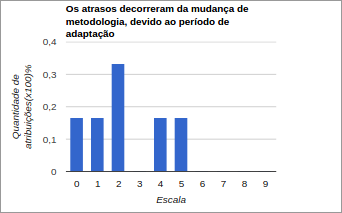
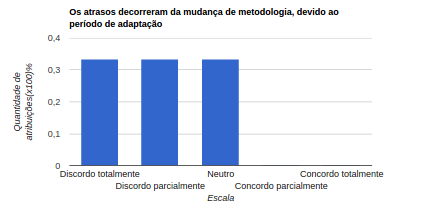
Adicionando resultados da análise

Changed region(s): [[0.0, 0.0, 1.0, 1.0], [0.8187, 0.6439, 0.8772, 0.6732]]

diff --git a/editaveis/diagnostico.tex b/editaveis/diagnostico.tex
@@ -1,0 +1,141 @@
+Para a realização da pesquisa-ação será considerado um projeto em andamento da organização que possui as seguintes características:
+
+
+\begin{itemize}
+	\item Aplicativo \textit{mobile};
+	\item Equipe composta de dois times:
+		\subitem 1 time de desenvolvimento com 6 pessoas;
+		\subitem 1 equipe de gerência com 6 pessoas;
+	\item Membros inexperientes na tecnologia.
+	\item Uso de metodologia ágil;
+	\item Quantidade de \textit{Sprints}: 7;
+	\item Tamanho da \textit{Sprint}: 1 semana;
+	\item Dedicação parcial do time, visto que trata-se de uma disciplina.
+\end{itemize}
+
+
+
+O diagnóstico realizado para ver a situação atual do projeto, selecionado para o estudo, consistiu na análise 
+	dos gráficos de \textit{Burndown} das quatro primeiras \textit{Sprints} e na aplicação de um questionário para o 
+	time de desenvolvimento.
+	
+	\subsection{Análise dos gráficos de \textit{Burndown}}
+
+	Para as quatro primeiras \textit{Sprints} é possível ver nas Figuras \ref{fig:burndown0}, \ref{fig:burndown1}, \ref{fig:burndown2}
+	\ref{fig:burndown3} que os pontos realizados não correspondem a pontuação total planejada para a \textit{Sprint}. 
+	Assim é possível ver que que nem todas as histórias alocadas foram entregues, o que significa que houve atrasos nas entregas.
+
+	O acompanhamento do \textit{Burndown} por \textit{Sprint} auxiliou na visualização da distribuição do trabalho dentro da \textit{Sprint}.
+	Assim foi possível ver, por exemplo, que nas \textit{Sprints} 0 e 1 o time demorou para começar a trabalhar, o que pode ter sido uma causa do atraso. Dessa forma, impactando nas \textit{Sprints} seguintes.
+
+	\begin{figure}[!h]
+	\begin{minipage}[b]{0.5\linewidth} 
+	\centering
+	\includegraphics[scale=0.5]{figuras/burndown_sprint0.png}
+	\caption{Burndown da \textit{Sprint} 0.}
+	\label{fig:burndown0}
+	\end{minipage}
+	\hspace{0.5cm} 
+	\begin{minipage}[b]{0.5\linewidth}
+	\centering
+	\includegraphics[scale=0.5]{figuras/burndown_sprint1.png}
+	\caption{Burndown da \textit{Sprint} 1.}
+	\label{fig:burndown1}
+	\end{minipage}
+	\end{figure}
+	
+	\begin{figure}[!h]
+	\begin{minipage}[b]{0.5\linewidth} 
+	\centering
+	\includegraphics[scale=0.5]{figuras/burndown_sprint2.png}
+	\caption{Burndown da \textit{Sprint} 2.}
+	\label{fig:burndown2}
+	\end{minipage}
+	\hspace{0.5cm} 
+	\begin{minipage}[b]{0.5\linewidth}
+	\centering
+	\includegraphics[scale=0.5]{figuras/burndown_sprint3.png}
+	\caption{Burndown da \textit{Sprint} 3.}
+	\label{fig:burndown3}
+	\end{minipage}
+	\end{figure}
+
+	\vfill
+	\pagebreak
+
+	\subsection{Questionário}
+
+	A fim de coletar dados sobre a percepção dos membros sobre possíveis aspectos que afetaram a entrega nos prazos foi aplicado
+	um questionário ao time de desenvolvimento que se encontra no apêndice \ref{apendice:questionario}.
+
+	No apêndice pode ser visto que o questionário é composto de afirmações que são avaliadas pelo respondente em uma escala de 1 a 5. Na qual 1 significa discordância total da afirmação e 5 concordância total. 
+
+	As respostas coletadas foram contabilizadas de acordo com cada categoria da escala para cada afirmação. Cada afirmação tratava de um fator que poderia estar ocasionando os atrasos. Essas afirmações são:
+
+	\begin{table}[h!]
+	\centering
+	\caption{Afirmações do questionário e fatores associados}
+	\label{my-label}
+	\begin{tabular}{|l|l|}
+	\hline
+	\multicolumn{1}{|c|}{\textbf{Afirmação}}                                                     & \multicolumn{1}{c|}{\textbf{Fator}}                                                       \\ \hline
+	\begin{tabular}[c]{@{}l@{}}1. Os atrasos ocorridos decorreram dos\\  erros nas estimativas em StoryPoints.\end{tabular}                 & Erro nas estimativas                                                                      \\ \hline
+	\begin{tabular}[c]{@{}l@{}}2. A dificuldade na linguagem ocasionou\\  os atrasos nas entregas da \textit{Sprint}.\end{tabular}        & Dificuldade na linguagem                                                                  \\ \hline
+	\begin{tabular}[c]{@{}l@{}}3. O tamanho da \textit{Sprint}\\  afetou nas entregas no prazo.\end{tabular}                              & Tamanho da \textit{Sprint}                                                              \\ \hline
+	\begin{tabular}[c]{@{}l@{}}4. Os atrasos decorreram da mudança\\  de metodologia, devido ao período de adaptação.\end{tabular}          & \begin{tabular}[c]{@{}l@{}}Dificuldade na adaptação \\ para metodologia ágil\end{tabular} \\ \hline
+	\begin{tabular}[c]{@{}l@{}}5. A demora na iniciação do desenvolvimento na\\  \textit{Sprint} ocasionou os atrasos.\end{tabular}       & Procrastinação                                                                            \\ \hline
+	\begin{tabular}[c]{@{}l@{}}6. A dificuldade na comunicação afetou\\  a entrega no prazo.\end{tabular}                                   & Dificuldade na comunicação                                                                \\ \hline
+	\begin{tabular}[c]{@{}l@{}}7. A dedicação parcial do time afetou\\  a entrega no prazo.\end{tabular}                                    & Dedicação parcial do time                                                                 \\ \hline
+	\begin{tabular}[c]{@{}l@{}}8. A dificuldade no entendimento das histórias\\  acarretou nos atrasos nas \textit{sprints}.\end{tabular} & \begin{tabular}[c]{@{}l@{}}Dificuldade no entendimento\\  das histórias\end{tabular}      \\ \hline
+	\end{tabular}
+	\end{table}
+
+	A sumarização dos resultados pode ser vista na Tabela \ref{tab:analise_respostas}.	Para uma melhor visualização das respostas também foram gerados gráficos, que também podem ser vistos em apêndice (Apêndice \ref{apendice:graficos}).
+
+	\begin{table}[!h]
+	\flushleft
+	\caption{Percentual de respostas por categoria em cada pergunta}
+	\label{tab:analise_respostas}
+	\begin{tabular}{|c|l|l|l|l|l|l|l|l|}
+	\hline
+	\textbf{\begin{tabular}[c]{@{}c@{}}Afirmação/\\ Categorias\end{tabular}} & \textbf{1} & \textbf{2} & \textbf{3} & \textbf{4} & \textbf{5} & \textbf{6} & \textbf{7} & \textbf{8} \\ \hline
+	\begin{tabular}[c]{@{}c@{}}Discordo\\  totalmente\end{tabular}   & 0\%        & 0\%        & 16,67\%    & 33,33\%    & 0\%        & 0\%        & 16,67\%    & 100\%      \\ \hline
+	\begin{tabular}[c]{@{}c@{}}Discordo\\  parcialmente\end{tabular} & 0\%        & 0\%        & 33,33\%    & 33,33\%    & 0\%        & 16,67\%    & 50\%       & 0\%        \\ \hline
+	Neutro                                                           & 33,33\%    & 0\%        & 33,33\%    & 33,33\%    & 16,67\%    & 33,3\%     & 16,67\%    & 0\%        \\ \hline
+	\begin{tabular}[c]{@{}c@{}}Concordo\\  parcialmente\end{tabular} & 50\%       & 50\%       & 16,67\%    & 0\%        & 66,67\%    & 50\%       & 0\%        & 0\%        \\ \hline
+	\begin{tabular}[c]{@{}c@{}}Concordo\\  totalmente\end{tabular}   & 16,67\%    & 50\%       & 0\%        & 0\%        & 16,67\%    & 0\%        & 16,67\%    & 0\%        \\ \hline
+	\end{tabular}
+	\end{table}
+
+
+
+		\subsubsection{Análise das respostas}
+
+			Analisando os dados apresentados na tabela \ref{tab:analise_respostas} e através do acompanhamento das \textit{sprints}, é possível analisar os fatores que a equipe acredita que tenham ocasionado os atrasos.
+	
+			Dessa forma, é possível ver que a equipe considera que errou nas estimativas em \textit{StoryPoints} e isso afetou nas entregas das histórias, visto que a maioria respostas convergiu para a concordância com a afirmação. Esse fator é um fator provável dentro da organização considerada nesse trabalho, visto que as equipes são inexperientes.
+
+			Outro fator que convergiu para a concordância foi a dificuldade na linguagem. O time analisa como um grande fator que impediu o desenvolvimento das histórias no prazo.
+
+			O tamanho da \textit{sprint} foi um fator que não houve uma convergência nítida, todavia a maioria discordou ou se colocou como neutro em relação a esse fator. Assim, não é um fator que tem um peso sobre os atrasos ocorridos.
+
+			A adaptação para a nova metodologia não foi um fator responsável pelos atrasos visto que as respostas convergiram para a discordância da afirmação.
+
+			A demora na iniciação do desenvolvimento, ou seja, a procrastinação da equipe foi considerado um fator responsável pelos atrasos, visto que as respostas convergiram para a concordância.
+
+			Em relação à dificuldade na comunicação a equipe se posicionou, em sua maioria, neutra ou em uma concordância parcial. A partir disso é possível
+			ver que a dificuldade de comunicação afeta os atrasos mas com um peso bem menor que outros fatores.
+
+			Para o fator dedicação parcial é possível que a equipe, em sua maioria, não acredita ser um problema que tenha ocasionado os atrasos.
+
+			Por fim, a dificuldade no entendimento das histórias foi considerado um fator sem influência nos atrasos. Isso é perceptível já que na organização, objeto de pesquisa deste trabalho, os requisitos da aplicação são definidos pelo time.
+
+		\subsubsection{Resultado da análise}
+			Resumindo a análise dos resultados, temos que os fatores que foram considerados responsáveis pelos atrasos, que serão objetos de estudo deste trabalho, são:
+
+			\begin{itemize}
+				\item Erros nas estimativas;
+				\item Dificuldade na linguagem;
+				\item Procrastinação;
+				\item Dificuldade de comunicação;
+			\end{itemize}

diff --git a/editaveis/pesquisa_acao.tex b/editaveis/pesquisa_acao.tex
@@ -1,98 +1,28 @@
 \chapter{Pesquisa-ação}
 \label{pesquisa_acao}
-	\section{Descrição da organização}
 
-		A organização a ser tratada neste trabalho refere-se aos grupos de trabalho das disciplinas de Gestão de Projetos
+		A organização a ser tratada como objeto da pesquisa-ação neste trabalho refere-se aos grupos de trabalho das disciplinas de Gestão de Projetos
 		e Portfólio (GPP) e Metodologias de Desenvolvimento de Software (MDS), do curso de Engenharia de \textit{Software}
 		da Universidade de Brasília.
 
-		A organização trabalha na produção de software com vários projetos, os quais possuem as seguintes características:
+		\section{Descrição da organização}
 
-		\begin{itemize}
-			\item Uso de dados abertos;
-			\item Aplicações WEB e aplicativos \textit{mobile};
-			\item Equipe composta de dois times:
-				\subitem 1 time de desenvolvimento;
-				\subitem 1 equipe de gerência;
-			\item Equipes pequenas e inexperientes;
-			\item Prazo fixo;
-		\end{itemize}
+			A organização trabalha na produção de software com vários projetos, os quais possuem as seguintes características:
 
-		\subsection{Objeto da ação}
+			\begin{itemize}
+				\item Uso de dados abertos;
+				\item Aplicações WEB e aplicativos \textit{mobile};
+				\item Equipe composta de dois times:
+					\subitem 1 time de desenvolvimento;
+					\subitem 1 equipe de gerência;
+				\item Equipes pequenas e inexperientes;
+				\item Prazo fixo;
+				\item Aplicação da metodologia de desenvolvimento tradicional e da metodologia ágil.
+			\end{itemize}
 
-		Para a realização da pesquisa-ação será considerado um projeto em andamento da organização que possui as seguintes características:
+	\section{Diagnóstico}
 
-
-		\begin{itemize}
-			\item Aplicativo \textit{mobile};
-			\item Equipe composta de dois times:
-				\subitem 1 time de desenvolvimento com 6 pessoas;
-				\subitem 1 equipe de gerência com 6 pessoas;
-			\item Membros inexperientes na tecnologia.
-			\item Uso de metodologia ágil;
-			\item Quantidade de \textit{Sprints}: 7;
-			\item Tamanho da \textit{Sprint}: 1 semana;
-			\item Dedicação parcial do time, visto que trata-se de uma disciplina.
-		\end{itemize}
-
-	\pagebreak
-
-
-\section{Diagnóstico}
-
-	O diagnóstico realizado para ver a situação atual do projeto selecionado para o estudo consistiu na análise 
-	dos gráficos de \textit{Burndown} das quatro primeiras \textit{Sprints} e na aplicação de um questionário para o 
-	time de desenvolvimento.
-	
-	\subsection{Análise dos gráficos de \textit{Burndown}}
-
-	Para as quatro primeiras \textit{Sprints} é possível ver nas Figuras \ref{fig:burndown0}, \ref{fig:burndown1}, \ref{fig:burndown2}
-	\ref{fig:burndown3} que os pontos realizados não correspondem a pontuação total planejada para a \textit{Sprint}. 
-	Assim é possível ver que que nem todas as histórias alocadas foram entregues, o que significa que houve atrasos nas entregas.
-
-	O acompanhamento do \textit{Burndown} por \textit{Sprint} auxiliou na visualização da distribuição do trabalho dentro da \textit{Sprint}.
-	Assim foi possível ver, por exemplo, que nas \textit{Sprints} 0 e 1 o time demorou para começar a trabalhar, o que pode ter sido uma causa do atraso. Dessa forma, impactando nas \textit{Sprints} seguintes.
-
-	\begin{figure}[!h]
-	\begin{minipage}[b]{0.5\linewidth} 
-	\centering
-	\includegraphics[scale=0.5]{figuras/burndown_sprint0.png}
-	\caption{Burndown da Sprint 0.}
-	\label{fig:burndown0}
-	\end{minipage}
-	\hspace{0.5cm} 
-	\begin{minipage}[b]{0.5\linewidth}
-	\centering
-	\includegraphics[scale=0.5]{figuras/burndown_sprint1.png}
-	\caption{Burndown da Sprint 1.}
-	\label{fig:burndown1}
-	\end{minipage}
-	\end{figure}
-	
-	\begin{figure}[!h]
-	\begin{minipage}[b]{0.5\linewidth} 
-	\centering
-	\includegraphics[scale=0.5]{figuras/burndown_sprint2.png}
-	\caption{Burndown da Sprint 2.}
-	\label{fig:burndown2}
-	\end{minipage}
-	\hspace{0.5cm} 
-	\begin{minipage}[b]{0.5\linewidth}
-	\centering
-	\includegraphics[scale=0.5]{figuras/burndown_sprint3.png}
-	\caption{Burndown da Sprint 3.}
-	\label{fig:burndown3}
-	\end{minipage}
-	\end{figure}
-	
-	\pagebreak
-
-
-	\subsection{Questionário}
-
-	A fim de coletar dados sobre a percepção dos membros sobre possíveis aspectos que afetaram a entrega nos prazos foi aplicado
-	um questionário ao time de desenvolvimento que se encontra no apêndice \ref{apendice:questionario}.
-
+	\input{editaveis/diagnostico}
 
 
 	\section{Planejamento da ação}
@@ -109,5 +39,5 @@
 
 		Para esse trabalho foram escolhidas três métricas principais: esforço, tamanho e tempo. A métrica tamanho, como já foi citado, pode ser alcançada de diversas formas. Para o contexto do trabalho analisaremos o tamanho realizando a contagem de número de linhas de código que, por sua vez, auxiliará a estimar o esforço a ser considerado para a obtenção de um produto a ser desenvolvido. O tempo estudado será aquele estimado a se realizar determinada tarefa.
 
-\section{Execução da ação}
-\section{Avaliação da ação}
+	\section{Execução da ação}
+	\section{Avaliação da ação}

diff --git a/editaveis/apendices.tex b/editaveis/apendices.tex
@@ -4,6 +4,59 @@
 
 	\chapter{Questionário}
 		\label{apendice:questionario}
+		\begin{figure}[!htb]
+		\center
+		\includegraphics[scale=0.7]{figuras/questionario.pdf}
+		\end{figure}
+		
+		\begin{figure}[!htb]
+		\center
+		\includegraphics[scale=0.7]{figuras/questionario2.pdf}
+		\end{figure}
 
+		\vfill
+		\pagebreak
+		
+		\section{Respostas do Questionário}
+			\label{apendice:graficos}
+			\begin{figure}[!htb]
+			\center
+			\includegraphics[scale=0.9]{figuras/grafico_1.png}
+			\end{figure}
+					
+			\begin{figure}[!htb]
+			\center
+			\includegraphics[scale=0.9]{figuras/grafico_2.png}
+			\end{figure}
+
+			\begin{figure}[!htb]
+			\center
+			\includegraphics[scale=0.9]{figuras/grafico_3.png}
+			\end{figure}
+			
+			\begin{figure}[!htb]
+			\center
+			\includegraphics[scale=0.9]{figuras/grafico_4.png}
+			\end{figure}
+
+			\begin{figure}[!htb]
+			\center
+			\includegraphics[scale=0.9]{figuras/grafico_5.png}
+			\end{figure}
+			
+			\begin{figure}[!htb]
+			\center
+			\includegraphics[scale=0.9]{figuras/grafico_6.png}
+			\end{figure}
+
+			\begin{figure}[!htb]
+			\center
+			\includegraphics[scale=0.9]{figuras/grafico_7.png}
+			\end{figure}
+			
+			\begin{figure}[!htb]
+			\center
+			\includegraphics[scale=0.9]{figuras/grafico_8.png}
+			\end{figure}
 
 \end{apendicesenv}
